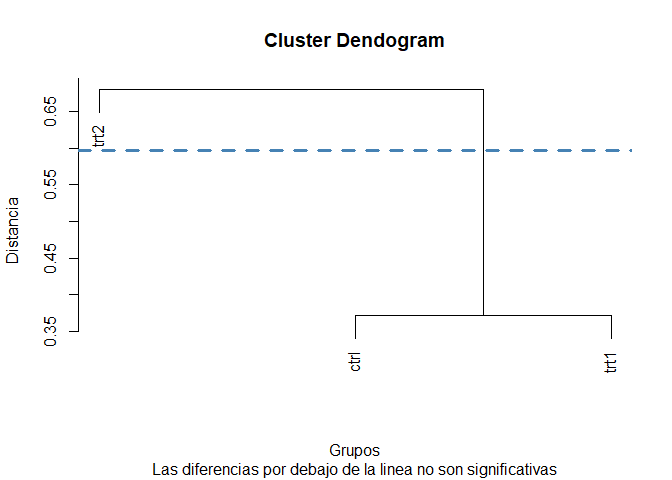
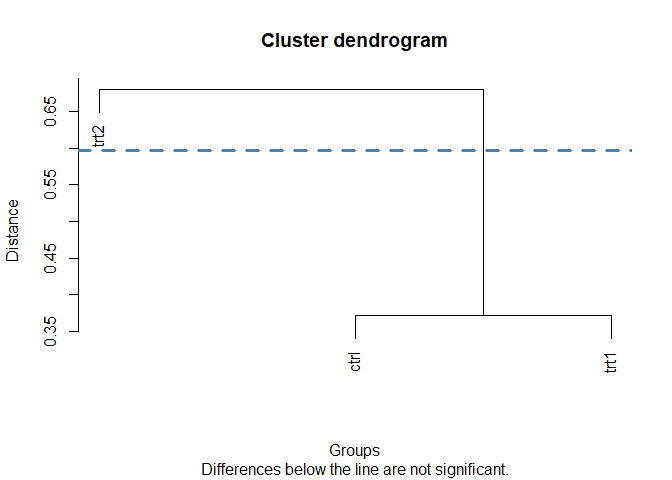
Traduciendo al ingles.

Changed region(s): [[0.2188, 0.9375, 0.8438, 1.0], [0.375, 0.0625, 0.6875, 0.125], [0.0, 0.4062, 0.0312, 0.5625]]

diff --git a/README.md b/README.md
@@ -39,7 +39,7 @@ de tratamiento diferentes.
 ``` r
 library(ClustMC)
 
-data("PlantGrowth")
+data(PlantGrowth)
 plants_weights <- PlantGrowth$weight
 plants_trt <- PlantGrowth$group
 
@@ -50,8 +50,8 @@ dgc_test(y = anova_model, trt = "plants_trt")
 
 <img src="man/figures/README-example-1.png" width="100%" />
 
-    #>      grupo
+    #>      group
     #> ctrl     1
     #> trt1     1
     #> trt2     2
-    #> Los tratamientos de un mismo grupo no presentan diferencias significativas
+    #> Treatments within the same group are not significantly different
